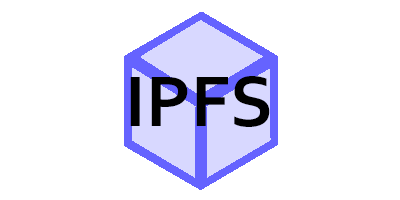
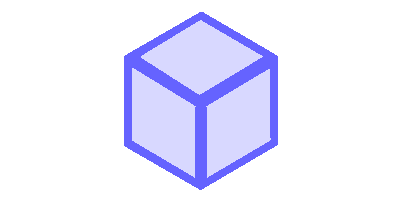
homepage and credit deduction changes

Changed region(s): [[0.3, 0.36, 0.69, 0.66]]

diff --git a/genera/templates/home.html b/genera/templates/home.html
@@ -86,10 +86,24 @@
           </div>
         </div>
         <div class="info_card rounded_container_no_padding shadow_strong ">
-          <img src="/static/Assets/Images/ifps_icon2.png" class="nft_image">
+          <img src="/static/Assets/Images/ifps_icon.png" class="nft_image">
           <div>
             <p class="no_margin center">IFPS Storage</p>
             <div><p class="no_margin center">Using Pinata, all your NFT metadata will be safely stored on the decentralized web!</p></div>                      
+          </div>
+        </div>
+        <div class="info_card rounded_container_no_padding shadow_strong ">
+          <img src="/static/Assets/Images/download_icon.png" class="nft_image">
+          <div>
+            <p class="no_margin center">Download</p>
+            <div><p class="no_margin center">Download all your generated assets with their metadata</p></div>                      
+          </div>
+        </div>
+        <div class="info_card rounded_container_no_padding shadow_strong ">
+          <img src="/static/Assets/Images/edit_metdata_icon.png" class="nft_image">
+          <div>
+            <p class="no_margin center">Edit Metadata</p>
+            <div><p class="no_margin center">Edit your NFT metadata post generation **Name & Description</p></div>            
           </div>
         </div>
       </div>

diff --git a/genera/templates/base_payments.html b/genera/templates/base_payments.html
@@ -9,14 +9,18 @@
       <h3>Credit based features</h3>
       <ul>
         <li>Asset Generation (w/ Metadata)</li>
-        <li>NFT IFPS Storage/Minting</li>
+        <li>NFT Minting (w/ IFPS Storage)</li>
       </ul>
     </div>
     <div class="credit_section middle_credit">
       <h3>Non credit based features</h3>
       <ul>
-        <li>Texture Mapping</li>
         <li>Generative NFT Previews</li>
+        <li>Post Generation Collection Download</li>
+        <li>Post Generation Collection Changes (Metadata, Deletions etc)</li>
+        <p style="margin-top: 10px; text-align: start;">*Coming next</p>
+        <li>NFT Minting (If you provide TokenURIs)</li>
+        <li>Stand Alone Texture Mapping</li>
       </ul>
     </div>
     <div class="credit_section">

diff --git a/genera/templates/about.html b/genera/templates/about.html
@@ -7,7 +7,7 @@
         <div class="about_top_text rounded_container light_purple_background shadow_strong">
             <h3>ABOUT US</h3>
             <h1>Connecting Artists to Ethereum</h1>
-            <h4>We are constantly innovating and supplying tools that will allow creators to easily publish their work on the decentralized web</h4>
+            <h4>We are constantly innovating and supplying tools that will allow creators to easily publish their work to the decentralized web</h4>
         </div>
     </div>
     <div class="about_main">

diff --git a/genera/static/js/global.js b/genera/static/js/global.js
@@ -131,6 +131,8 @@ function ajax_post(payload) {
                     resolve(JSON.parse(http_request.responseText))
                 }
                 else { //unhandled error
+                    close_loading_popup()
+                    console.log(JSON.parse(http_request.responseText))
                     alert("Unkown server error")
                     return
                 }   

diff --git a/genera/static/css/global.css b/genera/static/css/global.css
@@ -1095,7 +1095,6 @@ text-align: left;
 
 .collection_card > div >div{
   height: 40%;
-  overflow: hidden;
 }
 
 .collection_card > div > div > p{

diff --git a/genera/main/views.py b/genera/main/views.py
@@ -159,6 +159,7 @@ def upload_view(request):
                     watermark = Image.open("./static/Assets/Background/genera_watermark.png")
                 except:
                     print("Could not open watermark")
+                    return
                 resized_watermark =  watermark.resize((res_x, res_y))
                 im.paste(resized_watermark, (0,0), resized_watermark)
                 content = pil_to_bytes(im)    
@@ -302,8 +303,7 @@ def upload_view(request):
             create_and_save_collection(calebs_gay_dict, db_collection, request.user)
             
             messages.success(request, message="Collection generated succesfully! You have been redirected to the collection page ;)")
-            request.user.credits = request.user.credits - calebs_gay_dict["CollectionSize"]
-            request.user.save()
+           
             return redirect(reverse("main:collection",
                     kwargs={
                         "username": request.user.username,
@@ -570,10 +570,25 @@ def collection_view(request, username, collection_name):
             if "notneeded" in received_json_data:  # handle
                 pinata_links =[]
                 entry_ids =[]
-                if request.user.is_authenticated:     
+                if request.user.is_authenticated:
+                    if len(collection_images.filter(ipfs_bool = False)) > request.user.credits:
+                        messages.error(request, message="Not enough credits")
+                        return JsonResponse(
+                            {"server_message": "USER DOES NOT HAVE ENOUGH CREDITS"},
+                                status=201,
+                            )
                     for entry in collection_images:
                         if not entry.deployed_bool:
-                            if not entry.ipfs_bool: 
+                            if not entry.ipfs_bool:
+                                if user.credits <= 0:
+                                    messages.error(request, message="You ran out of credits")
+                                    return JsonResponse(
+                                        {"server_message": "USER RAN OUT OF CREDITS"},
+                                        status=201,
+                                    )
+                                else:
+                                    user.credits -= 1
+                                    user.save()
                                 print(entry.name)
                                 
                                 # uploading image to ipfs & updating db
@@ -582,8 +597,6 @@ def collection_view(request, username, collection_name):
 
                                 # getting entry metadata
                                 temp_metadata = entry.metadata
-                                print(type(temp_metadata))
-                                print(json.loads(temp_metadata))
                                 temphello =json.loads(temp_metadata)
                                 # print(temphello)
                                 # print(temphello["name"])
@@ -604,7 +617,6 @@ def collection_view(request, username, collection_name):
                     # for entry in collection_images:
                     #     print(entry.ipfs_metadata_path)
                     token_name = user_collection.token_name
-                    print(token_name)
                     collection_name = user_collection.collection_name
                     return JsonResponse(
                         { # Links here are sent during inital contract deployment. should have bool checks so this ajax isnt done somehow.
@@ -618,7 +630,7 @@ def collection_view(request, username, collection_name):
                 else:
                     return JsonResponse(
                         {"server_message": "USER NOT LOGGED IN"},
-                        status=200,
+                        status=201,
                     )
             elif "address_check" in received_json_data:
                 if request.user.is_authenticated:
@@ -640,7 +652,7 @@ def collection_view(request, username, collection_name):
                 else:
                     return JsonResponse(
                         {"server_message": "USER NOT LOGGED IN"},
-                        status=200,
+                        status=201,
                     )
             elif "address_set" in received_json_data:
                 if request.user.is_authenticated:
@@ -685,7 +697,7 @@ def collection_view(request, username, collection_name):
                 else:
                     return JsonResponse(
                         {"server_message": "USER NOT LOGGED IN"},
-                        status=200,
+                        status=201,
                     )
             elif "token_deployed" in received_json_data:
                 if request.user.is_authenticated:
@@ -710,7 +722,7 @@ def collection_view(request, username, collection_name):
                 else:
                     return JsonResponse(
                         {"server_message": "USER NOT LOGGED IN"},
-                        status=200,
+                        status=201,
                     )
             elif "store_txhash" in received_json_data:
                 if request.user.is_authenticated:
@@ -727,7 +739,7 @@ def collection_view(request, username, collection_name):
                 else:
                     return JsonResponse(
                         {"server_message": "USER NOT LOGGED IN"},
-                        status=200,
+                        status=201,
                     )
             elif "delete_entry" in received_json_data:
                 if request.user.is_authenticated:
@@ -744,7 +756,7 @@ def collection_view(request, username, collection_name):
                 else:
                     return JsonResponse(
                         {"server_message": "USER NOT LOGGED IN"},
-                        status=200,
+                        status=201,
                     )
             elif "delete_duplicates" in received_json_data:
                 if request.user.is_authenticated:
@@ -774,7 +786,7 @@ def collection_view(request, username, collection_name):
                 else:
                     return JsonResponse(
                         {"server_message": "USER NOT LOGGED IN"},
-                        status=200,
+                        status=201,
                     )
             elif "delete_collection" in received_json_data:
                 if request.user.is_authenticated:
@@ -788,7 +800,7 @@ def collection_view(request, username, collection_name):
                 else:
                     return JsonResponse(
                         {"server_message": "USER NOT LOGGED IN"},
-                        status=200,
+                        status=201,
                     )
         except RawPostDataException:  # NO AJAX DATA PROVIDED - DIFFERENT POST REQUEST INSTEAD
             pass

diff --git a/genera/main/view_tools.py b/genera/main/view_tools.py
@@ -31,10 +31,11 @@ def generate_stripe_products_context():
     all_prices_list = stripe.Price.list(limit=10)["data"]
     for price in all_prices_list:
         product = stripe.Product.retrieve(price["product"])
+        print(price)
         product_data = {}
         product_data["name"] = product["name"]
         product_data["description"] = product["description"]
-        product_data["price"] = price["nickname"]
+        product_data["price"] = price["unit_amount"] / 100
         product_data["currency"] = price["currency"]
         product_data["price_id"] = price["id"]
         products.append(product_data)

diff --git a/genera/main/generator_alg.py b/genera/main/generator_alg.py
@@ -282,6 +282,12 @@ def create_and_save_collection(tempDict, db_collection, user = None):
         image_to_collection_db.path_compressed = compressed_image_path #save thumbnail path
         image_to_collection_db.save()
         timeit_end = time.time()
+        if user.credits <= 0:
+            return
+        else:
+            user.credits -= 1
+            user.save()
+            
         print(f"Image {img_name} has been saved onto server (normal+compressed). Time taken: {timeit_end-timeit_start:.2f}s")
 
         # with open(
